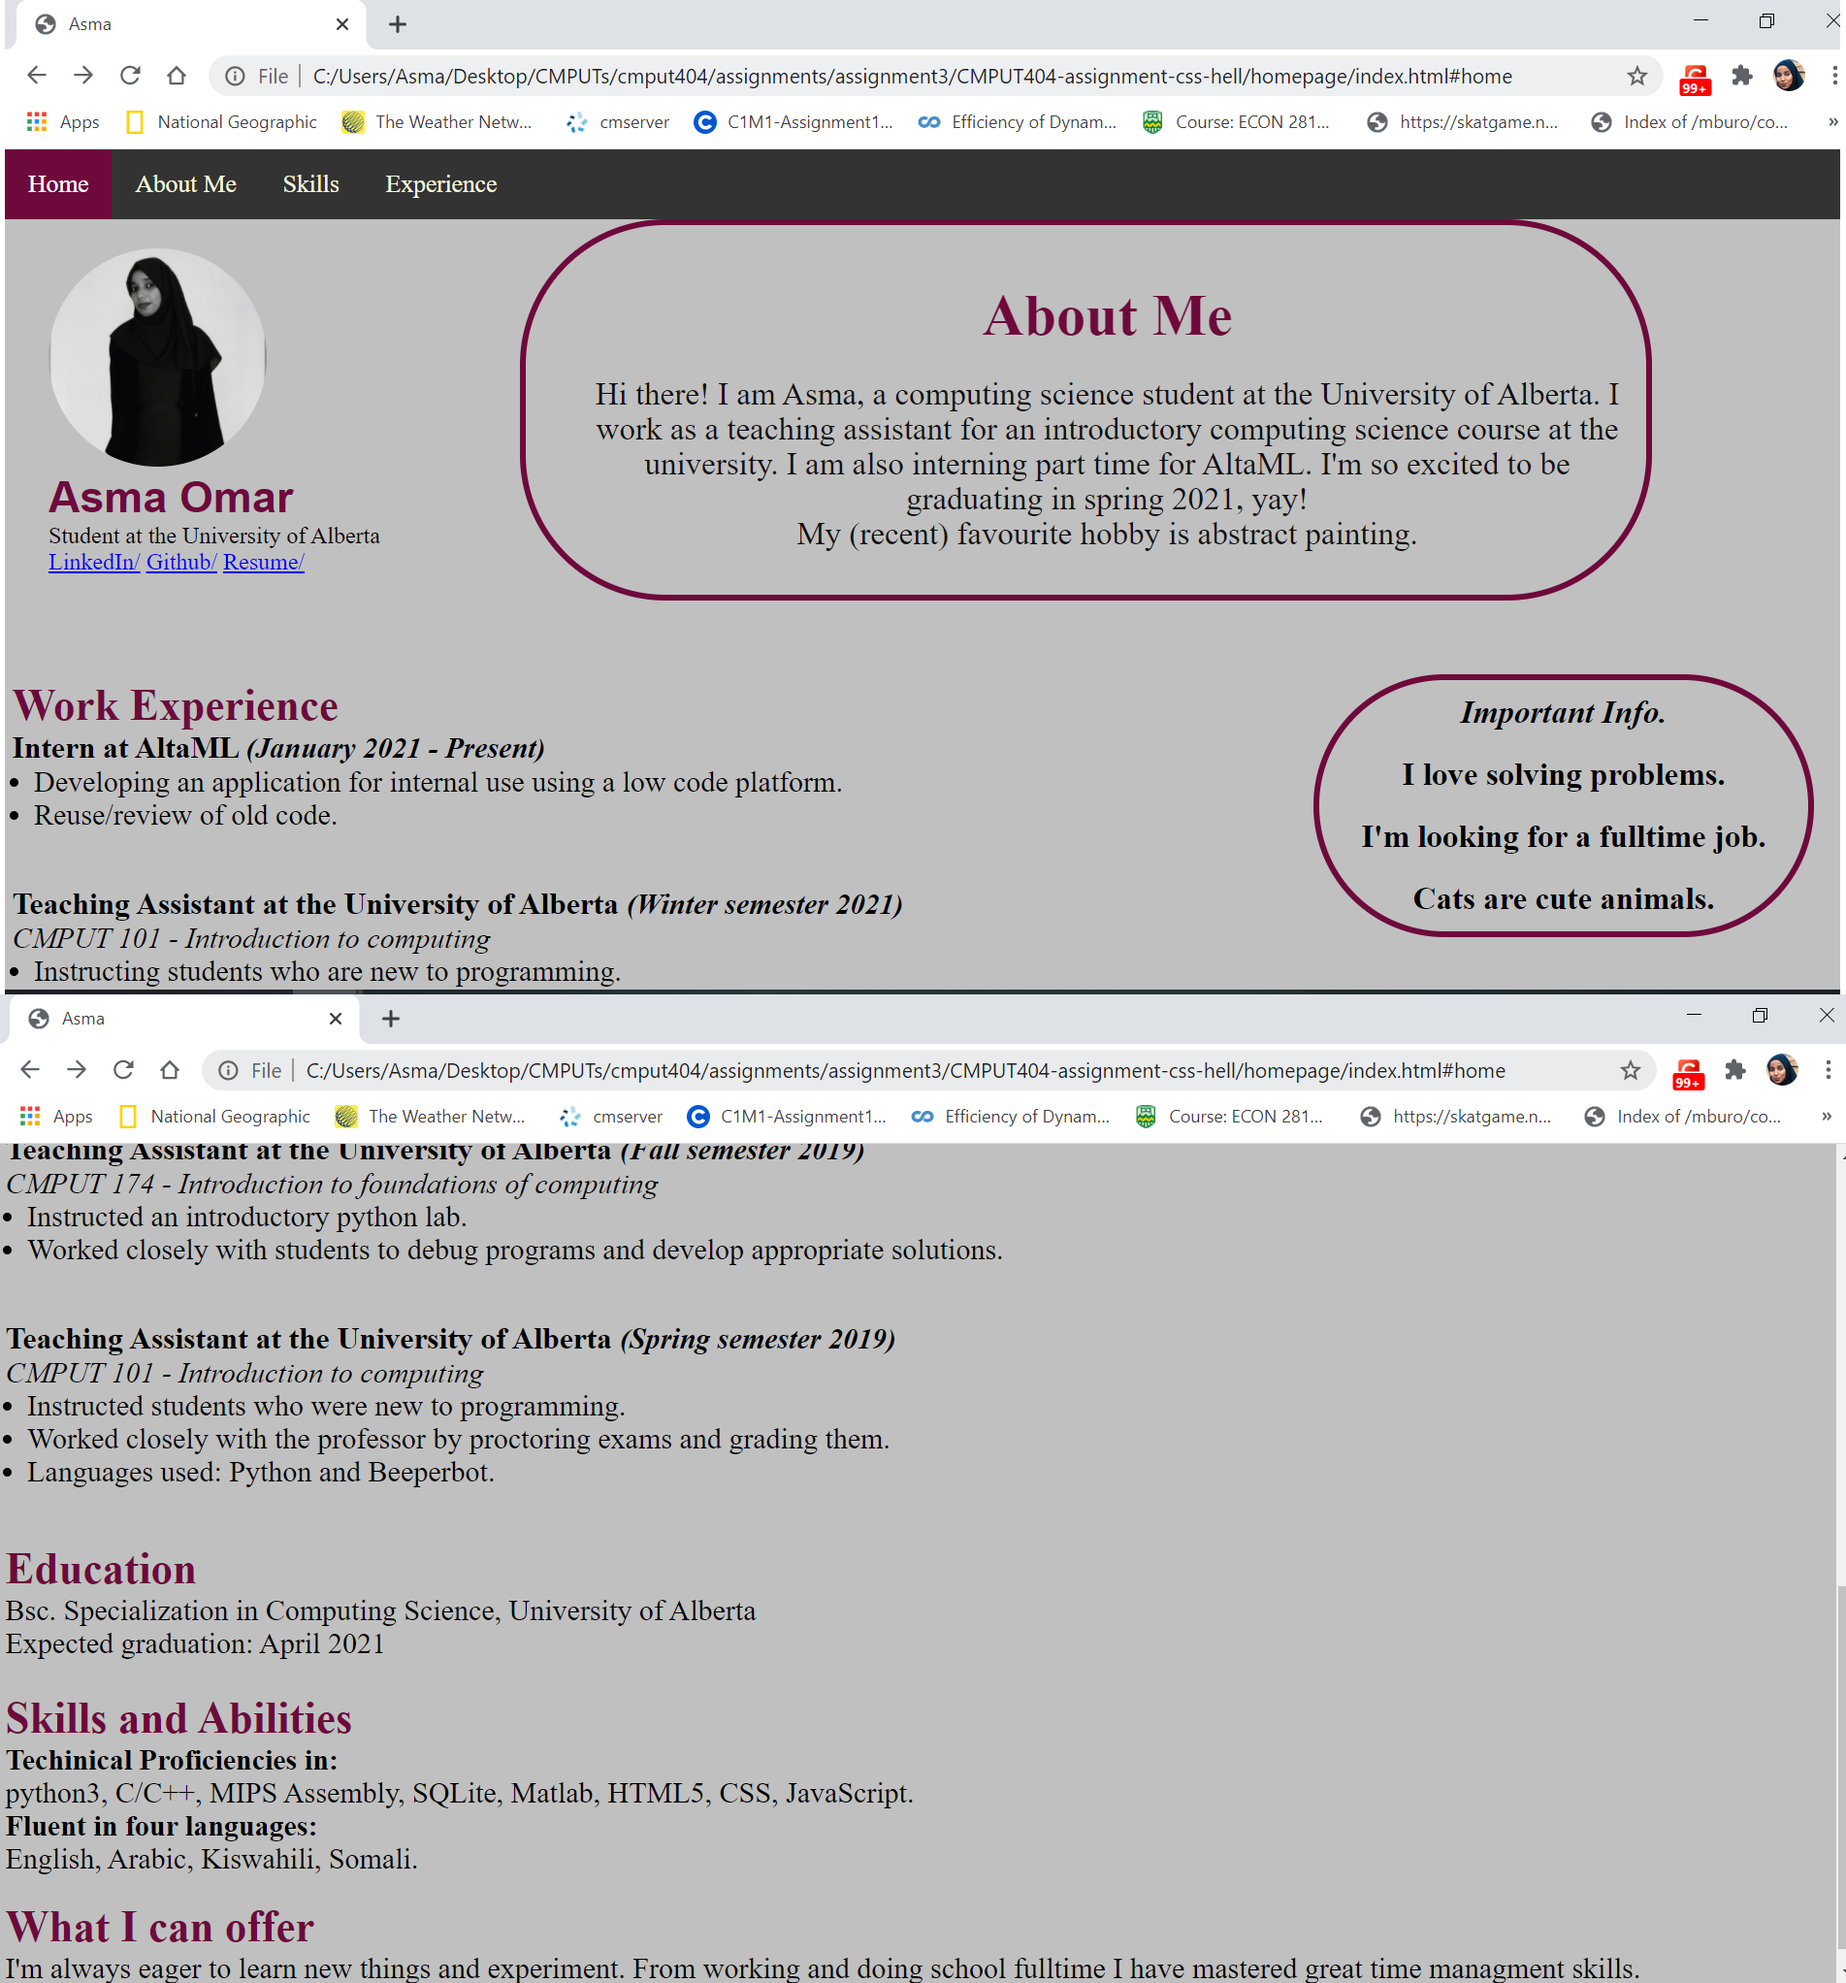
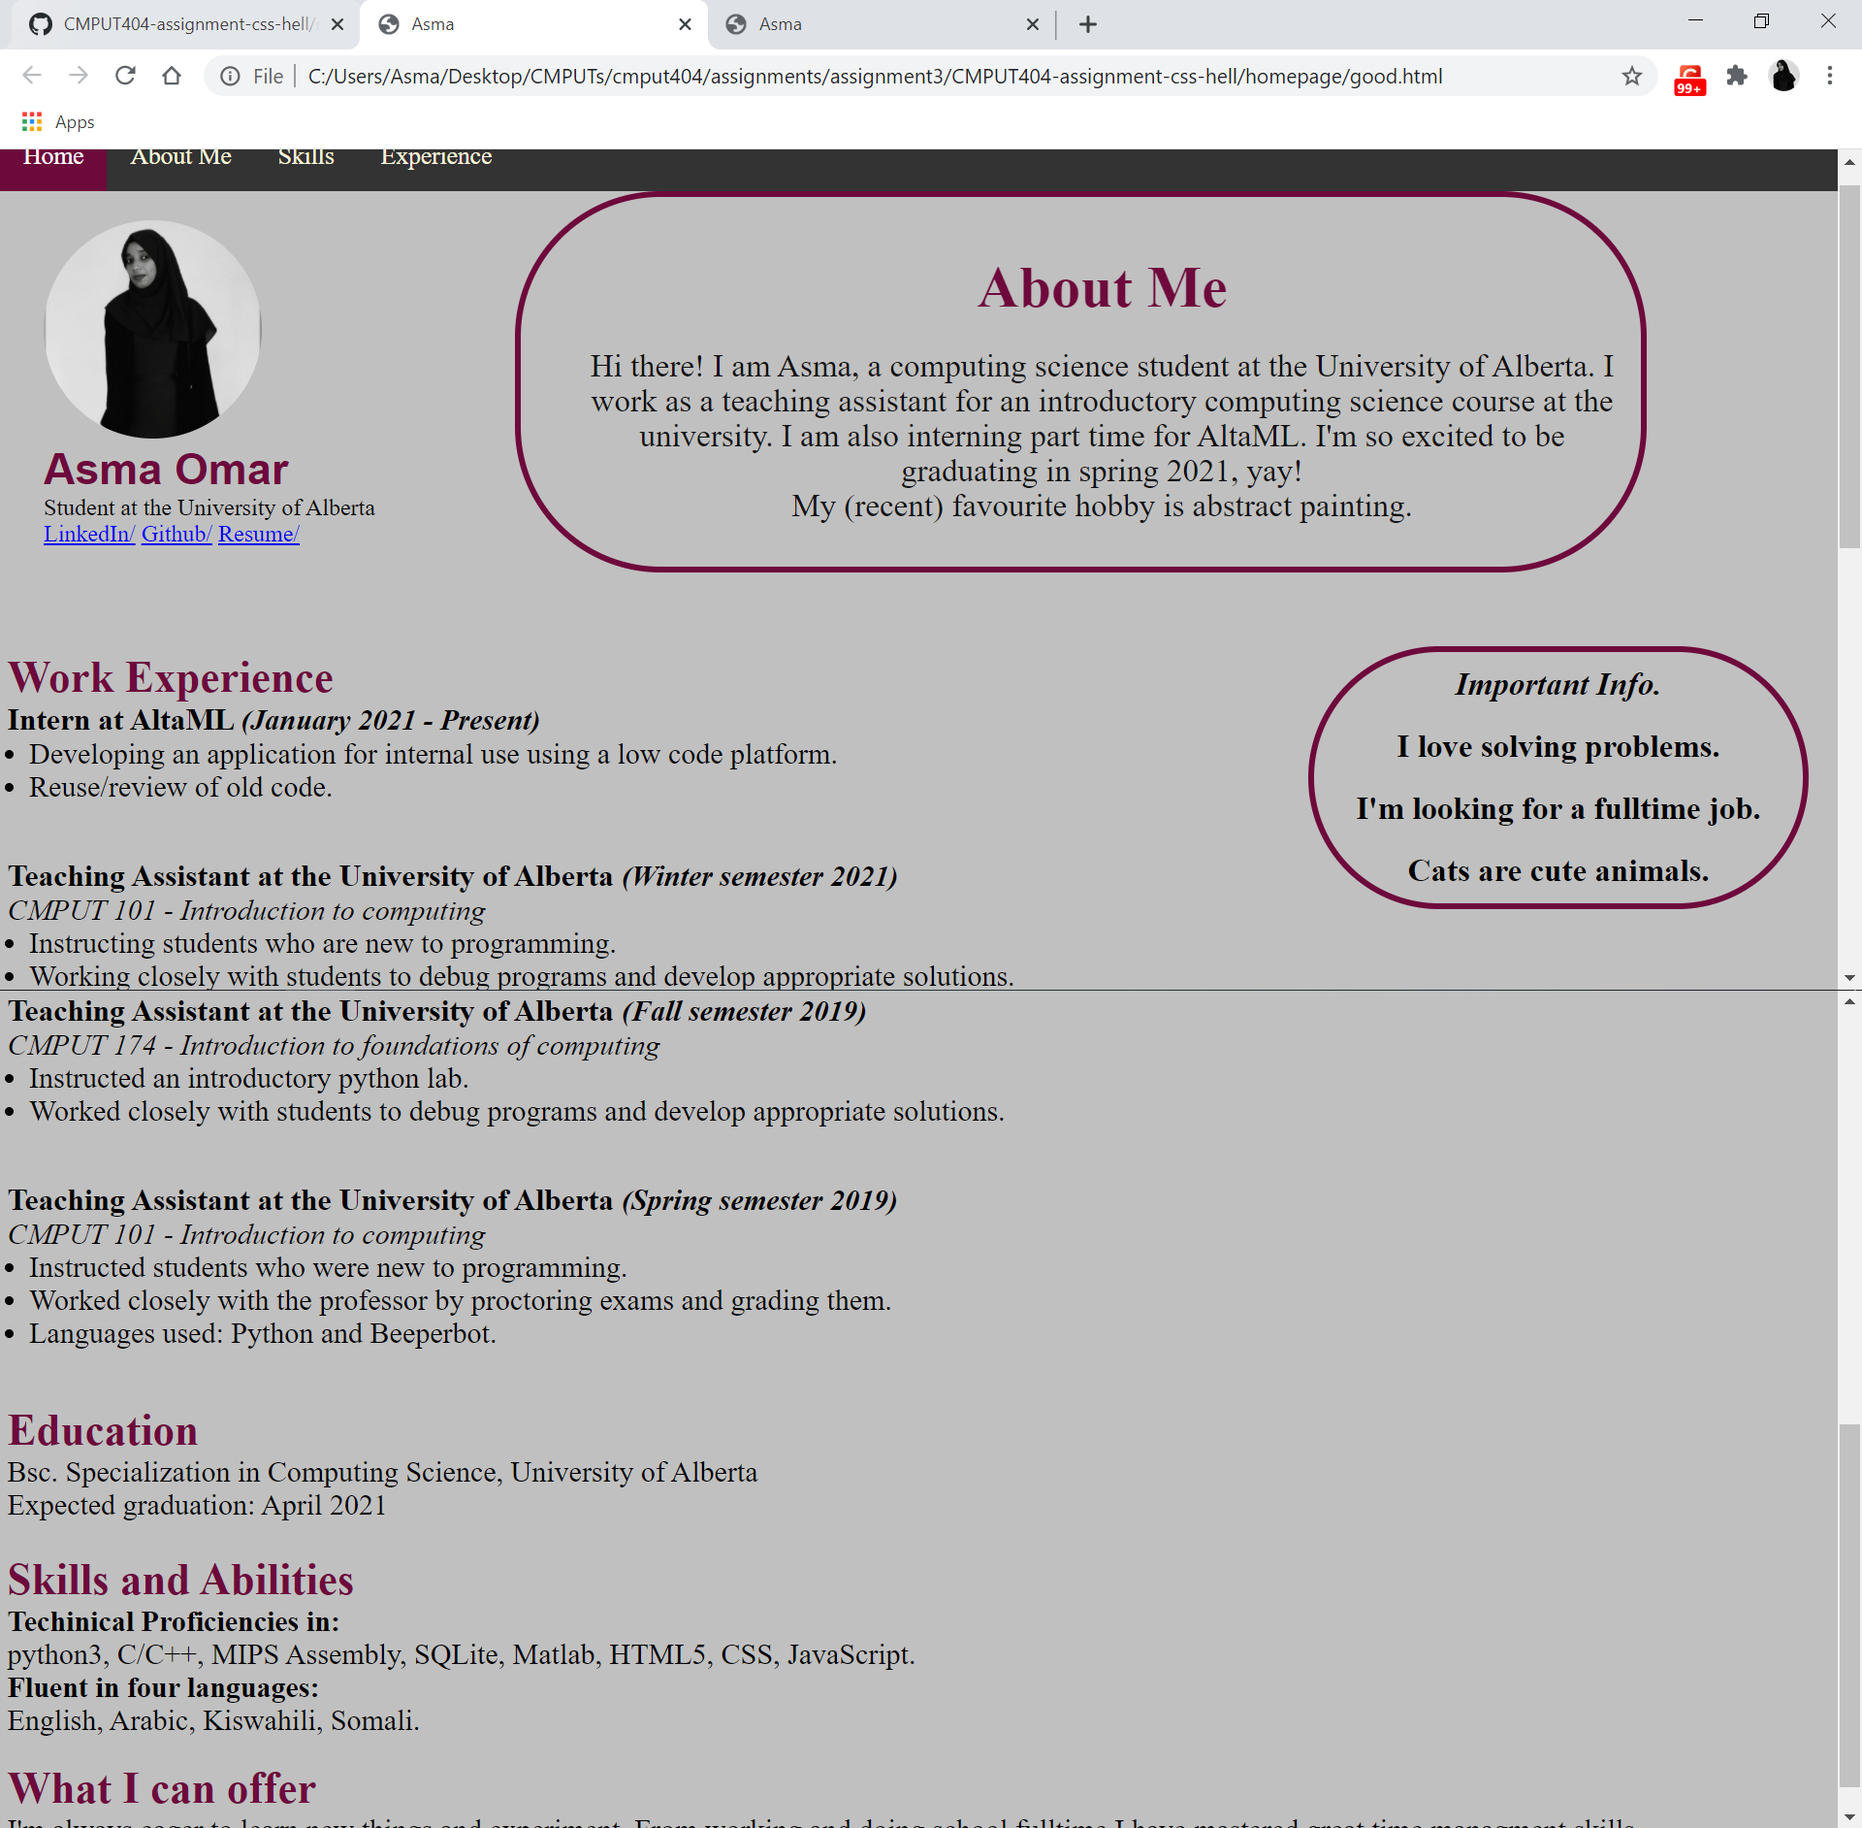
added screenshots

Changed region(s): [[0.0, 0.0, 1.0, 1.0]]

diff --git a/homepage/good.html b/homepage/good.html
@@ -65,7 +65,7 @@
 			<p class="course">CMPUT 101 - Introduction to computing</p>
 			<ul> 
 				<li>Instructing students who are new to programming.</li>
-				<li>Working closely with students to debug programs and develop appropriate solutions,</li>
+				<li>Working closely with students to debug programs and develop appropriate solutions.</li>
 				<li>Languages used: python.</li>
 			</ul>
 			<br>

diff --git a/Gutenberg/style.css b/Gutenberg/style.css
@@ -5,6 +5,7 @@ body {
 }
 
 h1 {
+    text-decoration: underline;
     font-size: 35px;
     letter-spacing: 5px;
 }
